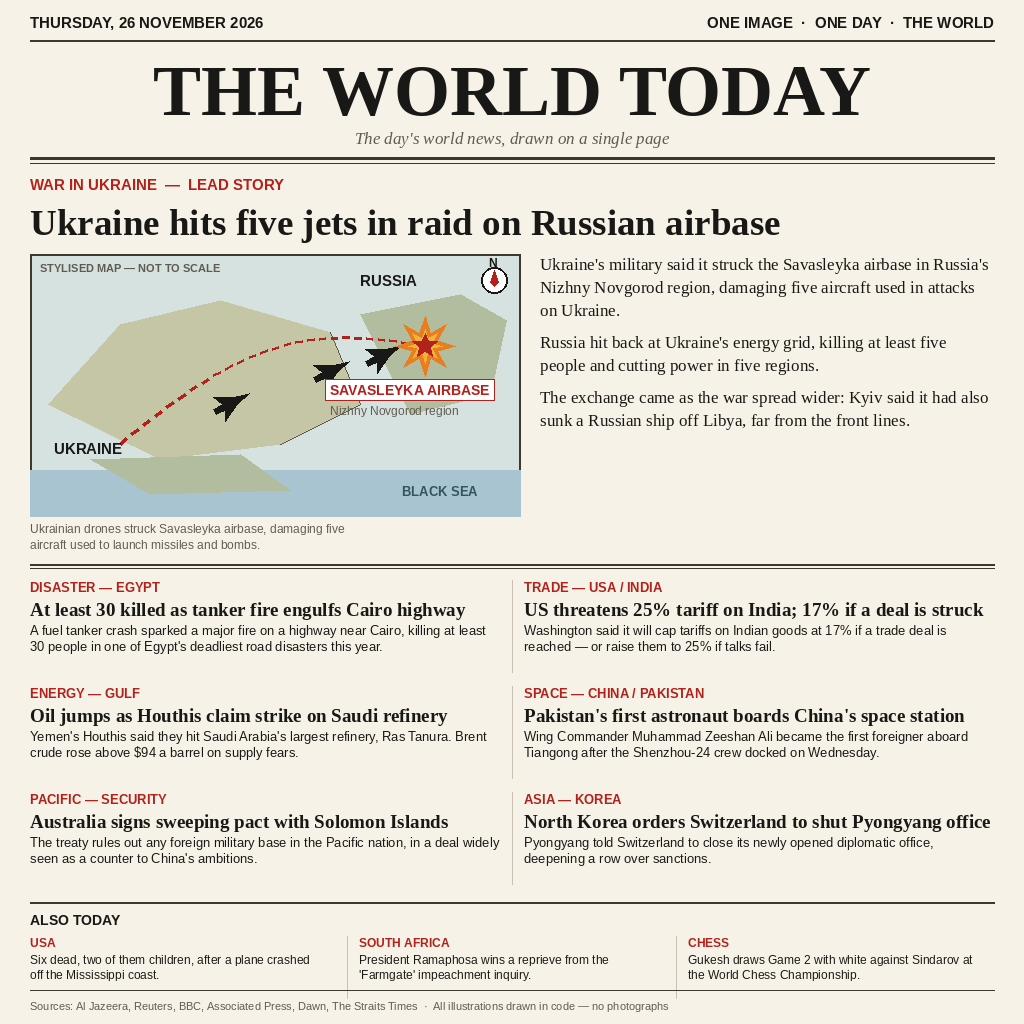
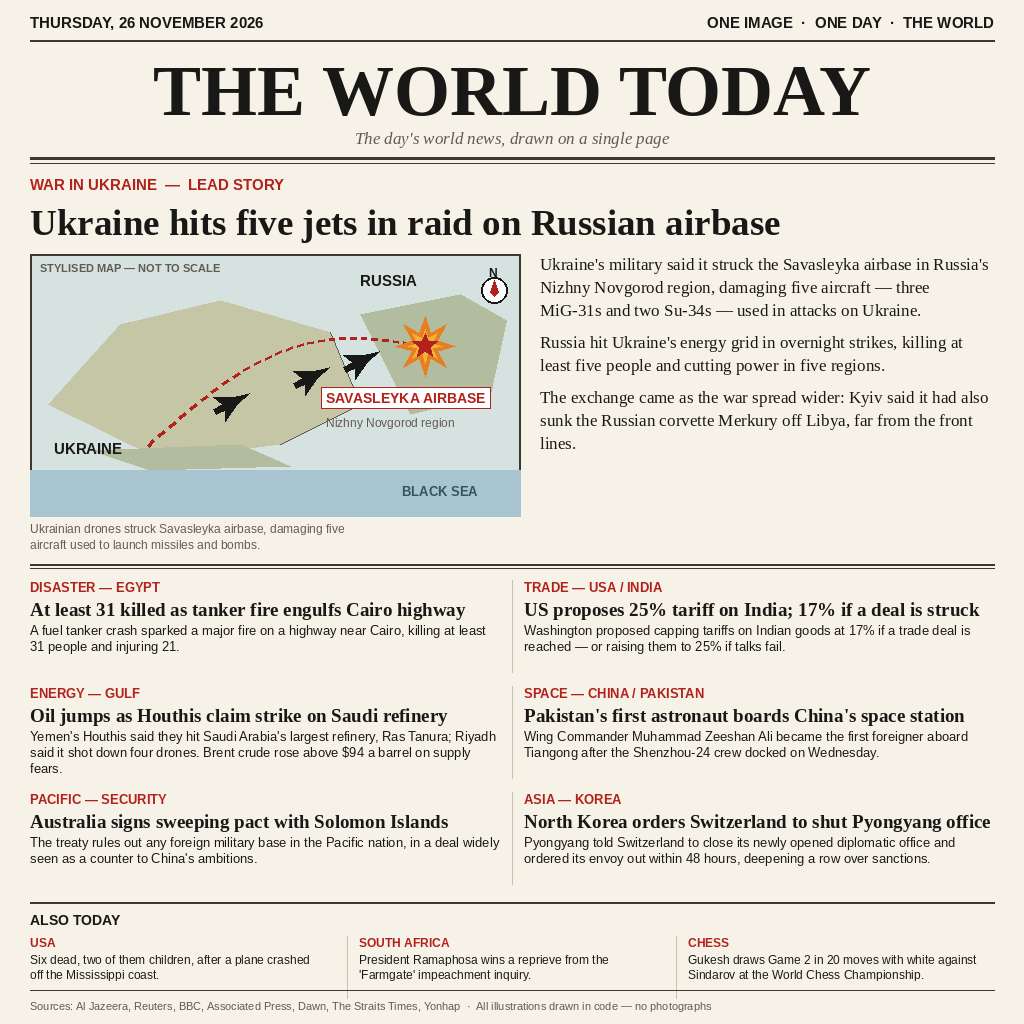
Revise: correct facts (Egypt toll 31, tariffs proposed, Saudi denial), fix map jets/labels/compass, strengthen PNG validation in main.ts

diff --git a/main.ts b/main.ts
@@ -7,8 +7,12 @@
 //
 // Validation (fails with a clear error if anything is wrong):
 //   - PNG signature (8 bytes)
-//   - IHDR chunk first, with width/height exactly 1024x1024
+//   - IHDR chunk first, with width/height exactly 1024x1024, 8-bit
+//     truecolour (colour type 2), no interlacing
 //   - full chunk chain parses cleanly through IEND (length + CRC per chunk)
+//   - at least one IDAT chunk, and the IDAT payload inflates to exactly
+//     the bytes of a 1024x1024 RGB image (proves the image data is
+//     complete, not just a well-formed container)
 //   - file size at most 1 MiB
 //
 // Run:  node main.ts        (writes /output/entry.png)
@@ -16,6 +20,7 @@
 import { copyFileSync, existsSync, mkdirSync, readFileSync } from "node:fs";
 import { dirname, join, resolve } from "node:path";
 import { fileURLToPath } from "node:url";
+import { inflateSync } from "node:zlib";
 
 const here = dirname(fileURLToPath(import.meta.url));
 const SRC = join(here, "entry.png");
@@ -58,7 +63,9 @@ function validatePng(bytes: Buffer): { width: number; height: number } {
   let width = 0;
   let height = 0;
   let seenIEND = false;
+  let seenIDAT = false;
   let first = true;
+  const idatParts: Buffer[] = [];
   while (off + 8 <= bytes.length) {
     const len = bytes.readUInt32BE(off);
     const type = bytes.subarray(off + 4, off + 8).toString("ascii");
@@ -77,7 +84,20 @@ function validatePng(bytes: Buffer): { width: number; height: number } {
       if (len !== 13) fail(`IHDR length is ${len}, expected 13`);
       width = bytes.readUInt32BE(dataStart);
       height = bytes.readUInt32BE(dataStart + 4);
+      const bitDepth = bytes[dataStart + 8];
+      const colourType = bytes[dataStart + 9];
+      const interlace = bytes[dataStart + 12];
+      if (bitDepth !== 8 || colourType !== 2) {
+        fail(`expected 8-bit truecolour (RGB) image, got bit depth ${bitDepth}, colour type ${colourType}`);
+      }
+      if (interlace !== 0) {
+        fail(`expected non-interlaced PNG, got interlace method ${interlace}`);
+      }
       first = false;
+    }
+    if (type === "IDAT") {
+      seenIDAT = true;
+      idatParts.push(bytes.subarray(dataStart, dataEnd));
     }
     if (type === "IEND") {
       if (len !== 0) fail("IEND chunk has data");
@@ -88,8 +108,22 @@ function validatePng(bytes: Buffer): { width: number; height: number } {
     off = dataEnd + 4;
   }
   if (!seenIEND) fail("no IEND chunk — chunk chain is incomplete");
+  if (!seenIDAT) fail("no IDAT chunk — PNG carries no image data");
   if (width !== EXPECTED_W || height !== EXPECTED_H) {
     fail(`dimensions are ${width}x${height}, expected ${EXPECTED_W}x${EXPECTED_H}`);
+  }
+  // The pixel data must inflate to exactly one filter byte + 1024 RGB
+  // pixels per scanline, for 1024 scanlines. A truncated or corrupt IDAT
+  // stream fails here even if every chunk CRC is intact.
+  let raw: Buffer;
+  try {
+    raw = inflateSync(Buffer.concat(idatParts));
+  } catch (err) {
+    fail(`IDAT data does not decompress: ${(err as Error).message}`);
+  }
+  const expectedRaw = EXPECTED_H * (1 + EXPECTED_W * 3);
+  if (raw.length !== expectedRaw) {
+    fail(`decompressed image data is ${raw.length} bytes, expected ${expectedRaw} for a 1024x1024 RGB image`);
   }
   return { width, height };
 }

diff --git a/README.md b/README.md
@@ -13,22 +13,25 @@ drawn in code (Pillow); there are no photographs.
 ## The news in the image
 
 **Lead story — War in Ukraine.** Ukraine's military said it struck the
-Savasleyka airbase in Russia's Nizhny Novgorod region, damaging five
-aircraft used to launch missiles and bombs. Russia hit back at Ukraine's
-energy grid, killing at least five people and cutting power in five
-regions. The war also spread wider: Kyiv said it had sunk a Russian ship
-off Libya, far from the front lines. *(Al Jazeera, 26 Nov 2026)*
+Savasleyka airbase in Russia's Nizhny Novgorod region on 24–25 November,
+damaging five aircraft — three MiG-31s and two Su-34s — used to launch
+missiles and bombs; the extent of the damage is still being assessed.
+Russia hit Ukraine's energy grid in overnight strikes, killing at least
+five people and cutting power in five regions. The war also spread wider:
+Kyiv said it had sunk the Russian corvette Merkury off Libya, far from
+the front lines. *(Reuters, 25–26 Nov 2026)*
 
 **The other stories:**
 
 - **Disaster — Egypt.** A fuel tanker crash sparked a major fire on a
-  highway near Cairo, killing at least 30 people.
-- **Trade — USA / India.** The US said it will cap tariffs on Indian goods
-  at 17% if a trade deal is reached — or raise them to 25% if talks fail.
-  *(Reuters, 25–26 Nov 2026)*
+  highway near Cairo, killing at least 31 people and injuring 21.
+  *(Associated Press, 25–26 Nov 2026)*
+- **Trade — USA / India.** The US proposed capping tariffs on Indian goods
+  at 17% if a trade deal is reached — or raising them to 25% if talks fail.
+  The rates are a USTR proposal, not final. *(Reuters, 25 Nov 2026)*
 - **Energy — Gulf.** Yemen's Houthis said they hit Saudi Arabia's largest
-  refinery, Ras Tanura; Brent crude rose above $94 a barrel on supply
-  fears. *(Reuters, 26 Nov 2026)*
+  refinery, Ras Tanura; Riyadh said it shot down four drones. Brent crude
+  rose above $94 a barrel on supply fears. *(Reuters, 25–26 Nov 2026)*
 - **Space — China / Pakistan.** Wing Commander Muhammad Zeeshan Ali became
   the first foreigner aboard China's Tiangong space station after the
   Shenzhou-24 crew docked. *(Dawn, 25 Nov 2026)*
@@ -36,14 +39,15 @@ off Libya, far from the front lines. *(Al Jazeera, 26 Nov 2026)*
   treaty ruling out any foreign military base in the Pacific nation, a deal
   widely seen as a counter to China's ambitions. *(The Straits Times, 25 Nov 2026)*
 - **Asia — Korea.** North Korea ordered Switzerland to close its newly
-  opened diplomatic office in Pyongyang.
+  opened diplomatic office in Pyongyang and its envoy out within 48 hours,
+  in a row over sanctions on a youth camp. *(Yonhap, 25 Nov 2026)*
 
 **Also today:** six dead, two of them children, after a plane crashed off
 the Mississippi coast (BBC); South Africa's President Ramaphosa wins a
-reprieve from the "Farmgate" impeachment inquiry; Gukesh draws Game 2 with
-white against Sindarov at the World Chess Championship.
+reprieve from the "Farmgate" impeachment inquiry; Gukesh draws Game 2 in
+20 moves with white against Sindarov at the World Chess Championship.
 
-Sources: Al Jazeera, Reuters, BBC, Associated Press, Dawn, The Straits Times.
+Sources: Al Jazeera, Reuters, BBC, Associated Press, Dawn, The Straits Times, Yonhap.
 
 ## How it works
 
@@ -54,8 +58,9 @@ Sources: Al Jazeera, Reuters, BBC, Associated Press, Dawn, The Straits Times.
 - `main.ts` — copies the validated `entry.png` to `/output/entry.png`.
   Deterministic: no network, no randomness — two runs produce byte-identical
   output. Before copying, it validates the PNG (signature, IHDR, full chunk
-  chain through IEND, 1024×1024, ≤ 1 MiB) and fails with a clear error if
-  the image is damaged.
+  chain through IEND, 8-bit RGB, non-interlaced, at least one IDAT chunk,
+  IDAT data inflates to exactly the bytes of a 1024×1024 RGB image,
+  1024×1024, ≤ 1 MiB) and fails with a clear error if the image is damaged.
 
 ## Run it
 
